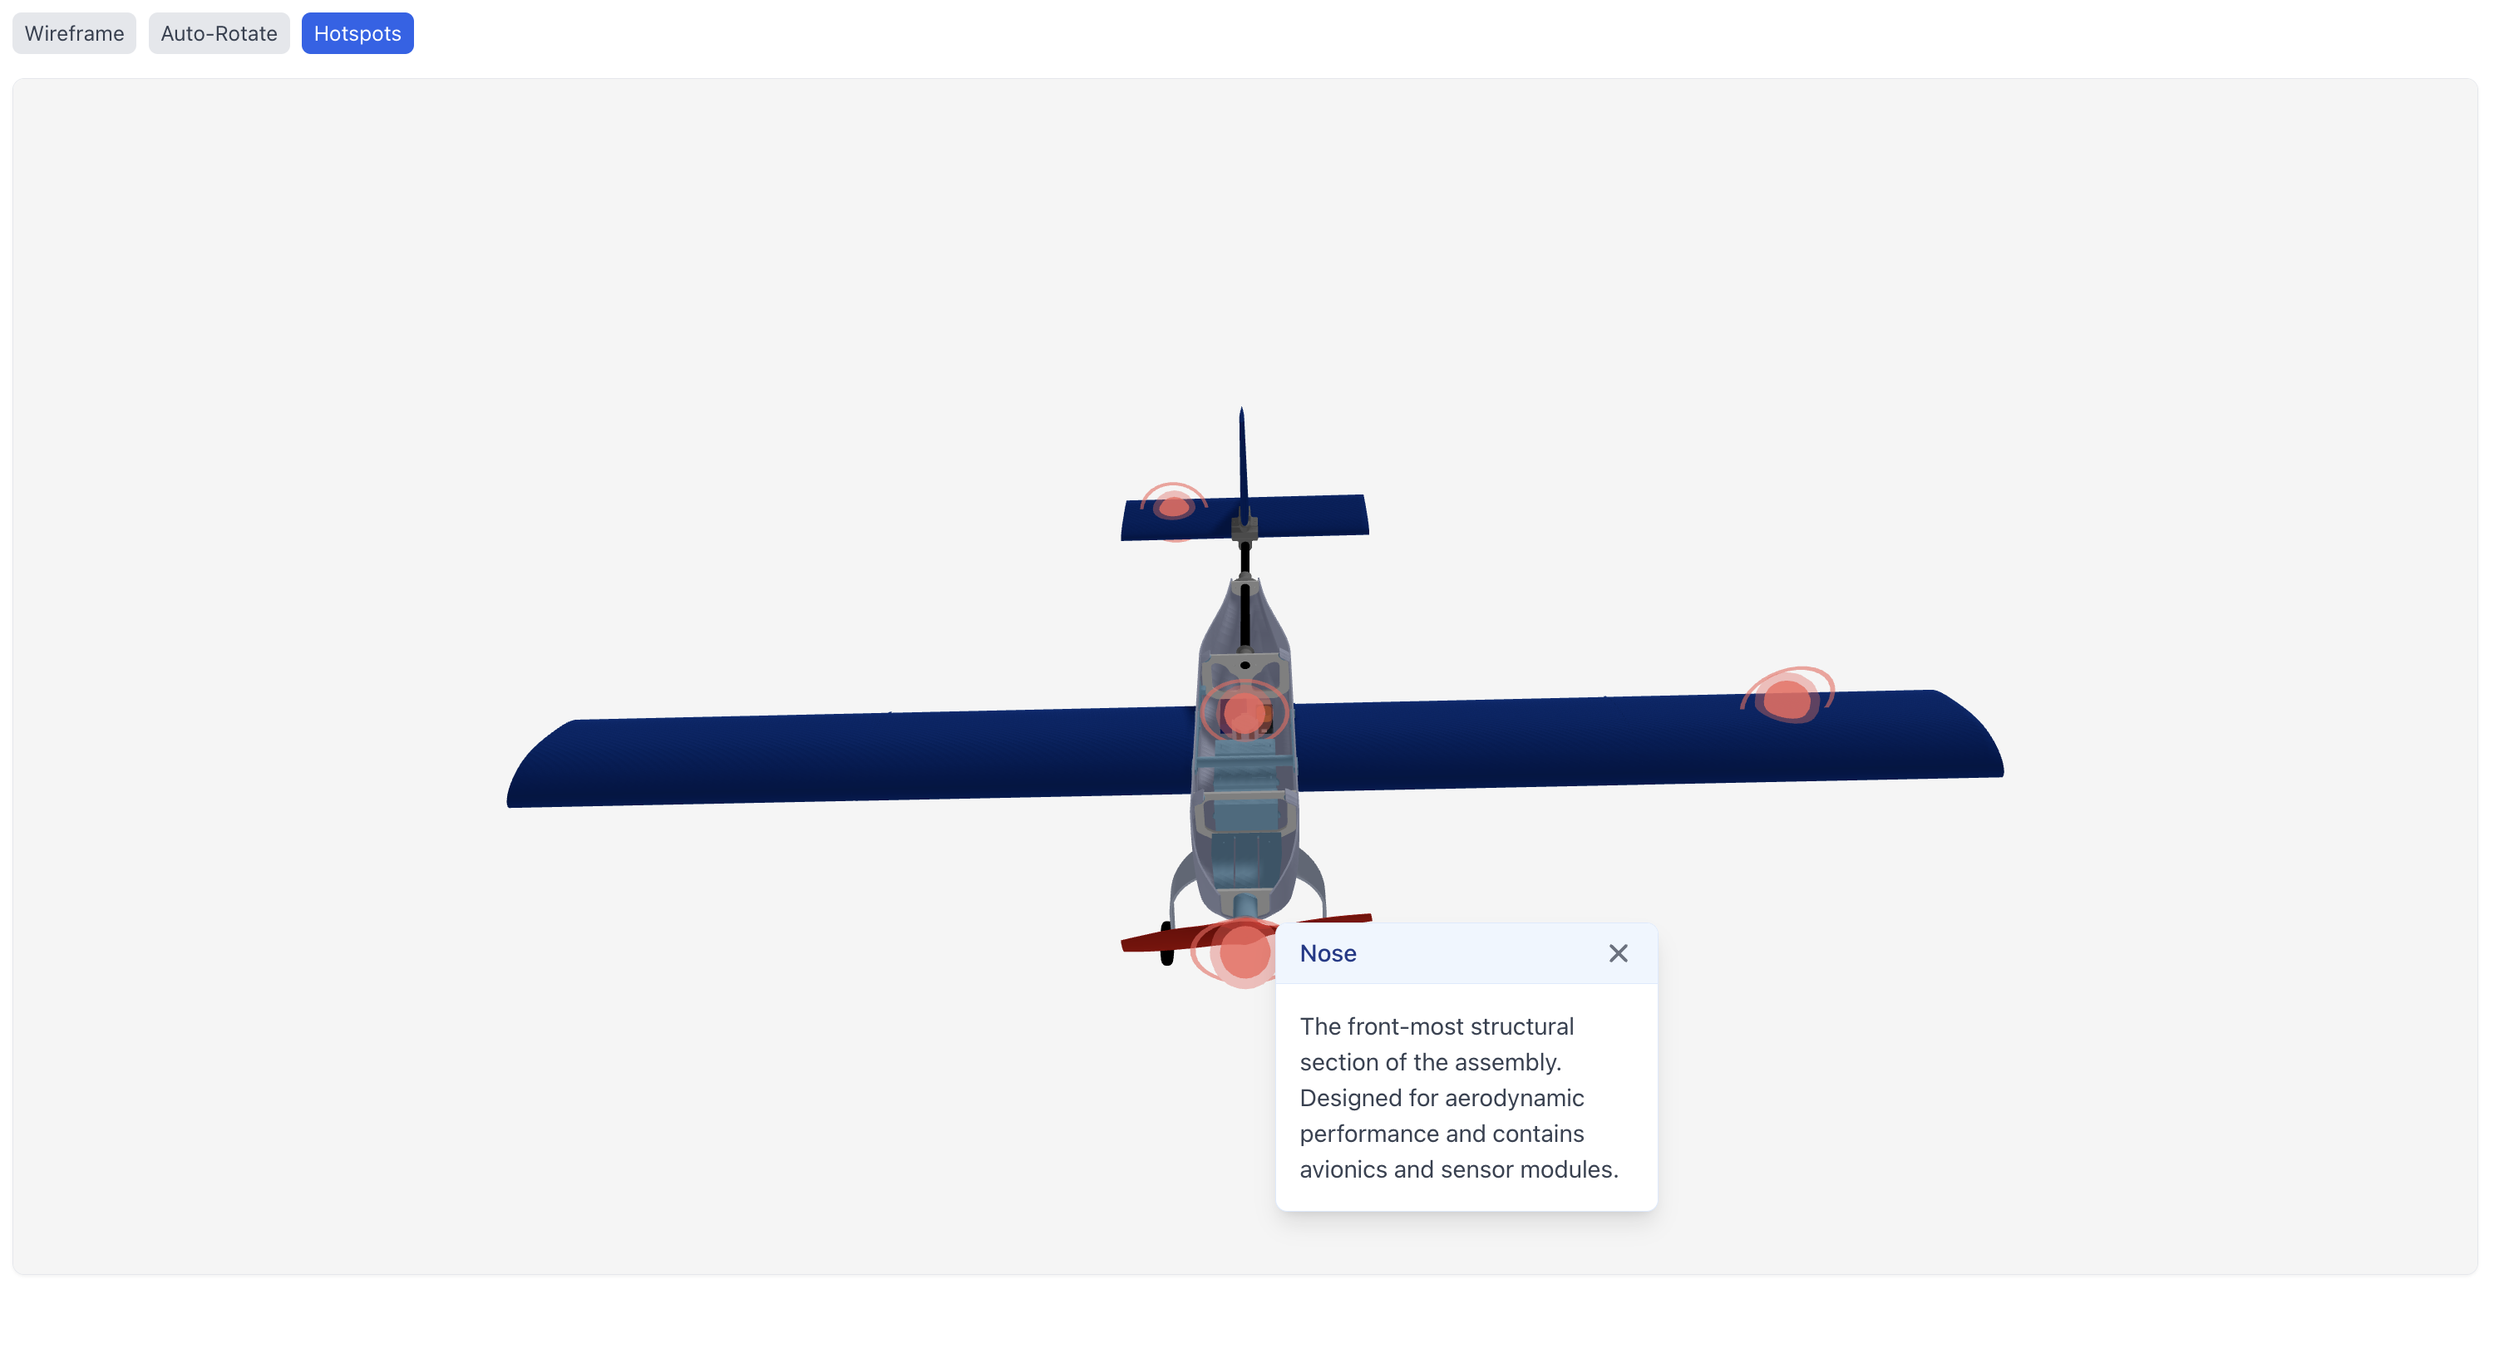
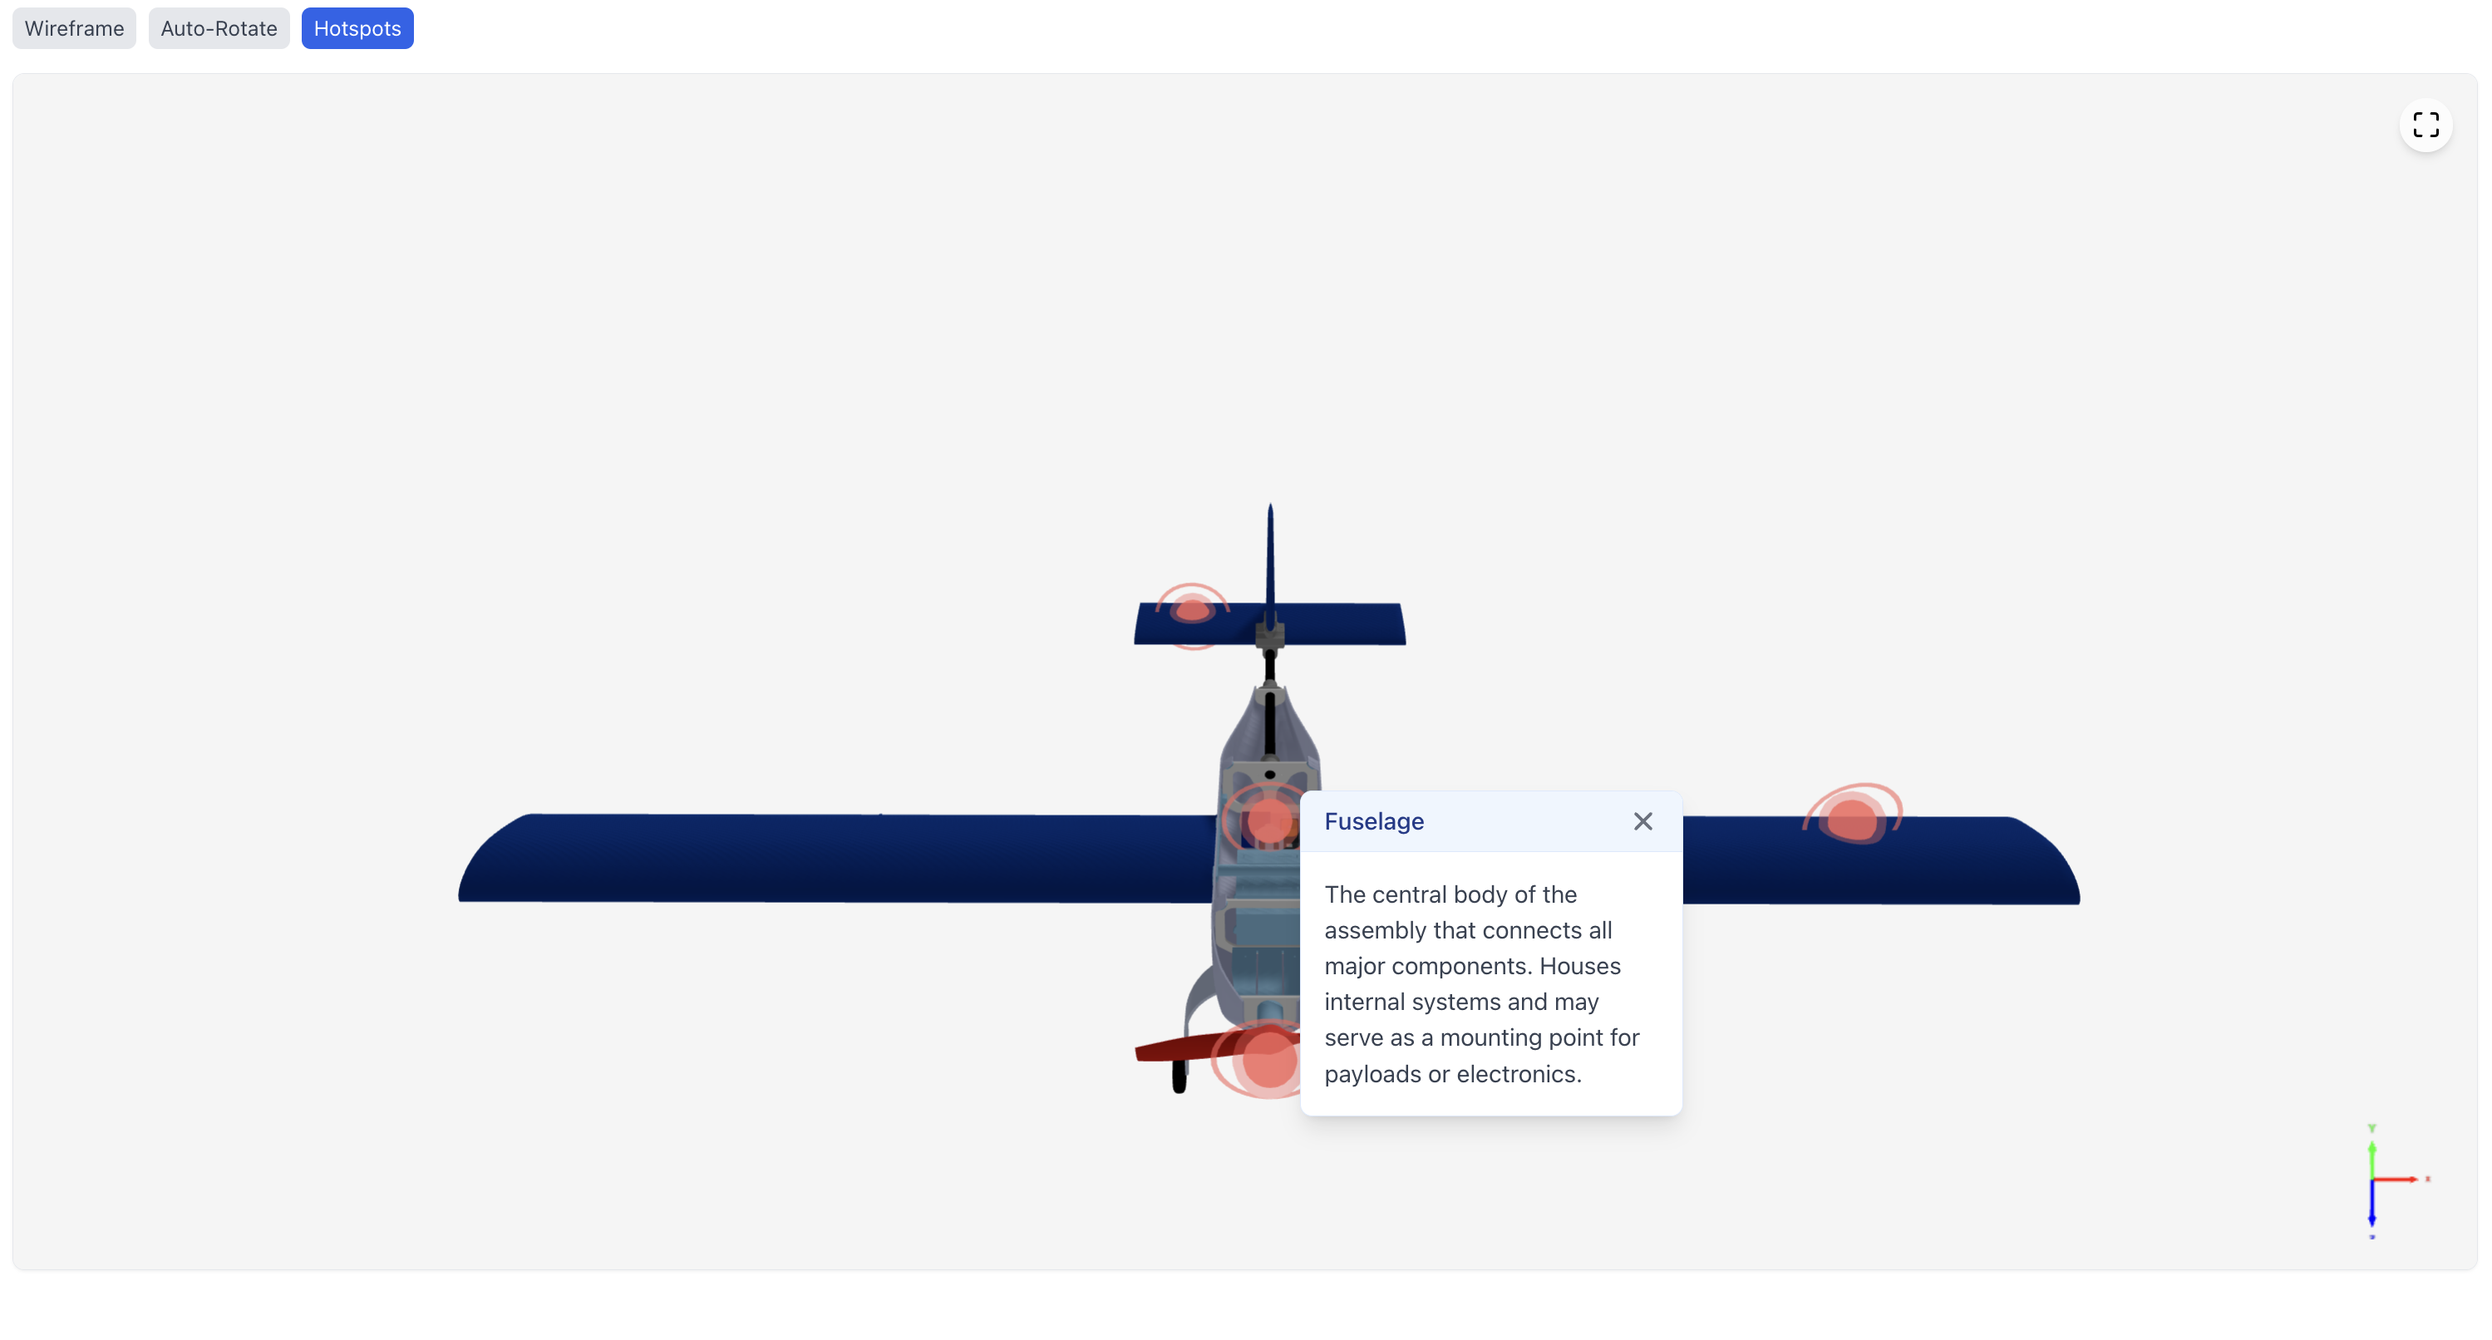
Add full screen and axis gizmo

Changed region(s): [[0.1861, 0.3412, 0.8376, 0.8995], [0.0, 0.0, 0.1861, 0.062], [0.9306, 0.8685, 0.9616, 0.8995]]

diff --git a/src/components/modelViewer/sceneContainer.js b/src/components/modelViewer/sceneContainer.js
@@ -1,7 +1,8 @@
-import { useEffect, useRef } from 'react';
+import { useEffect, useRef, useState } from 'react';
 import { initScene } from '../../utils/sceneSetup';
 import { loadModel } from '../../utils/modelLoader';
 import { createHotspots } from '../../utils/hotspotManager';
+import { createAxisGizmo } from '../UI/axisGizmo';
 
 /**
  * Component that handles the Three.js scene initialization and lifecycle
@@ -10,6 +11,114 @@ export default function SceneContainer({ modelConfig, viewerState, onLoad, onErr
 {
   const containerRef = useRef(null);
   const sceneRef = useRef(null);
+  const gizmoRef = useRef(null);
+  const [isFullscreen, setIsFullscreen] = useState(false);
+
+  const toggleFullscreen = () => {
+    if (!containerRef.current || !sceneRef.current) return;
+    
+    const { renderer, camera } = sceneRef.current;
+    
+    if (!document.fullscreenElement) {
+      // Enter fullscreen
+      let requestSuccess = false;
+      if (containerRef.current.requestFullscreen) {
+        containerRef.current.requestFullscreen();
+        requestSuccess = true;
+      } else if (containerRef.current.webkitRequestFullscreen) {
+        containerRef.current.webkitRequestFullscreen();
+        requestSuccess = true;
+      } else if (containerRef.current.mozRequestFullScreen) {
+        containerRef.current.mozRequestFullScreen();
+        requestSuccess = true;
+      } else if (containerRef.current.msRequestFullscreen) {
+        containerRef.current.msRequestFullscreen();
+        requestSuccess = true;
+      }
+      if(requestSuccess){
+        setIsFullscreen(true);
+        // Resize renderer to window size after a slight delay to ensure fullscreen is complete
+        setTimeout(() => {
+            if (renderer && camera) {
+                renderer.setSize(window.innerWidth, window.innerHeight);
+                camera.aspect = window.innerWidth / window.innerHeight;
+                camera.updateProjectionMatrix();
+            }
+        }, 100);
+    }
+    } else {
+      // Exit fullscreen
+      let exitSuccess = false;
+      if (document.exitFullscreen) {
+        document.exitFullscreen().then(() => {
+          setIsFullscreen(false);
+          // Return to container size after exiting fullscreen
+          setTimeout(() => {
+            if (renderer && camera && containerRef.current) {
+              const width = containerRef.current.clientWidth;
+              const height = containerRef.current.clientHeight;
+              renderer.setSize(width, height);
+              camera.aspect = width / height;
+              camera.updateProjectionMatrix();
+            }
+          }, 100);
+        }).catch();
+      } else if (document.webkitExitFullscreen) {
+        document.webkitExitFullscreen();
+        exitSuccess = true;
+      } else if (document.mozCancelFullScreen) {
+        document.mozCancelFullScreen();
+        exitSuccess = true;
+      } else if (document.msExitFullscreen) {
+        document.msExitFullscreen();
+        exitSuccess = true;
+      }
+      if(exitSuccess) {
+        setIsFullscreen(false);
+        setTimeout(() => updateRendererSize(), 100);
+      }
+    }
+  };
+
+  const updateRendererSize = () => {
+    if (!containerRef.current || !sceneRef.current) return;
+    
+    const { renderer, camera } = sceneRef.current;
+    if (renderer && camera) {
+      const width = isFullscreen ? window.innerWidth : containerRef.current.clientWidth;
+      const height = isFullscreen ? window.innerHeight : containerRef.current.clientHeight;
+      
+      renderer.setSize(width, height);
+      camera.aspect = width / height;
+      camera.updateProjectionMatrix();
+    }
+  };
+
+  // Add event listener for fullscreen change
+  useEffect(() => {
+    const handleFullscreenChange = () => {
+      const fullscreenActive = !!document.fullscreenElement || 
+                !!document.webkitFullscreenElement || 
+                !!document.mozFullScreenElement || 
+                !!document.msFullscreenElement;
+                                
+      setIsFullscreen(fullscreenActive);
+      // Update renderer size on fullscreen change
+      setTimeout(() => updateRendererSize(), 100);
+    };
+
+    document.addEventListener('fullscreenchange', handleFullscreenChange);
+    document.addEventListener('webkitfullscreenchange', handleFullscreenChange);
+    document.addEventListener('mozfullscreenchange', handleFullscreenChange);
+    document.addEventListener('MSFullscreenChange', handleFullscreenChange);
+
+    return () => {
+      document.removeEventListener('fullscreenchange', handleFullscreenChange);
+      document.removeEventListener('webkitfullscreenchange', handleFullscreenChange);
+      document.removeEventListener('mozfullscreenchange', handleFullscreenChange);
+      document.removeEventListener('MSFullscreenChange', handleFullscreenChange);
+    };
+  }, [isFullscreen]);
 
   useEffect(() => {
     if (!containerRef.current) return;
@@ -23,6 +132,9 @@ export default function SceneContainer({ modelConfig, viewerState, onLoad, onErr
       if (sceneRef.current?.cleanup) {
         sceneRef.current.cleanup();
       }
+      if (gizmoRef.current?.cleanup) {
+        gizmoRef.current.cleanup();
+      }
     };
 
     cleanupExistingScene();
@@ -32,6 +144,9 @@ export default function SceneContainer({ modelConfig, viewerState, onLoad, onErr
 
     // Store scene reference for updates and cleanup
     sceneRef.current = { scene, camera, renderer, controls, raycaster, mouse, hotspots, cleanup };
+
+    // Create and initialize the axis gizmo
+    gizmoRef.current = createAxisGizmo({ mainCamera: camera, container: containerRef.current });
 
     // Apply viewer state to scene
     controls.autoRotate = viewerState.autoRotate;
@@ -121,19 +236,17 @@ export default function SceneContainer({ modelConfig, viewerState, onLoad, onErr
       
       controls.update();
       renderer.render(scene, camera);
+      
+      // Update the axis gizmo orientation to match the camera
+      if (gizmoRef.current && gizmoRef.current.update) {
+        gizmoRef.current.update();
+      }
     };
     
     animate();
 
     const handleResize = () => {
-      if (!containerRef.current) return;
-      
-      const width = containerRef.current.clientWidth;
-      const height = containerRef.current.clientHeight;
-      
-      camera.aspect = width / height;
-      camera.updateProjectionMatrix();
-      renderer.setSize(width, height);
+      updateRendererSize();
     };
 
     window.addEventListener('resize', handleResize);
@@ -143,6 +256,9 @@ export default function SceneContainer({ modelConfig, viewerState, onLoad, onErr
       window.removeEventListener('resize', handleResize);
       renderer.domElement.removeEventListener('click', handleClick);
       cancelAnimationFrame(animationFrameId);
+      if (gizmoRef.current && gizmoRef.current.cleanup) {
+        gizmoRef.current.cleanup();
+      }
       cleanup();
     };
   }, [modelConfig.objUrl, modelConfig.mtlUrl]);
@@ -198,8 +314,25 @@ export default function SceneContainer({ modelConfig, viewerState, onLoad, onErr
   return (
     <div
       ref={containerRef}
-      className="w-full h-full bg-gradient-to-b from-gray-50 to-gray-100"
-      style={{ touchAction: 'none' }}
-    />
+      className="w-full h-full bg-gradient-to-b from-gray-50 to-gray-100 relative"
+      style={{ touchAction: 'none', ...(isFullscreen ? { width: '100vw', height: '100vh' } : {}) }}
+    >
+      <button
+        onClick={toggleFullscreen}
+        className="absolute top-4 right-4 z-10 bg-white bg-opacity-70 hover:bg-opacity-100 p-2 rounded-full shadow-md transition-all duration-200"
+        style={{ width: '36px', height: '36px' }}
+        title={isFullscreen ? "Exit Fullscreen" : "Enter Fullscreen"}
+      >
+        {isFullscreen ? (
+          <svg xmlns="http://www.w3.org/2000/svg" width="20" height="20" viewBox="0 0 24 24" fill="none" stroke="currentColor" strokeWidth="2" strokeLinecap="round" strokeLinejoin="round">
+            <path d="M8 3v3a2 2 0 0 1-2 2H3m18 0h-3a2 2 0 0 1-2-2V3m0 18v-3a2 2 0 0 1 2-2h3M3 16h3a2 2 0 0 1 2 2v3" />
+          </svg>
+        ) : (
+          <svg xmlns="http://www.w3.org/2000/svg" width="20" height="20" viewBox="0 0 24 24" fill="none" stroke="currentColor" strokeWidth="2" strokeLinecap="round" strokeLinejoin="round">
+            <path d="M8 3H5a2 2 0 0 0-2 2v3m18 0V5a2 2 0 0 0-2-2h-3m0 18h3a2 2 0 0 0 2-2v-3M3 16v3a2 2 0 0 0 2 2h3" />
+          </svg>
+        )}
+      </button>
+    </div>
   );
 }

diff --git a/src/components/UI/axisGizmo.js b/src/components/UI/axisGizmo.js
@@ -1,0 +1,156 @@
+import * as THREE from 'three';
+
+/**
+ * Creates an orientation axis gizmo for the scene
+ * @param {Object} params - Parameters
+ * @param {THREE.Camera} params.mainCamera - Main camera
+ * @param {HTMLElement} params.container - Container element
+ * @returns {Object} Gizmo objects and update function
+ */
+export function createAxisGizmo({ mainCamera, container }) {
+  // Create a separate scene for the gizmo
+  const gizmoScene = new THREE.Scene();
+  
+  // Create a separate camera for the gizmo
+  const gizmoCamera = new THREE.PerspectiveCamera(50, 1, 0.1, 100);
+  gizmoCamera.position.set(0, 0, 3);
+  gizmoCamera.lookAt(0, 0, 0);
+  
+  // Create a renderer for the gizmo
+  const gizmoRenderer = new THREE.WebGLRenderer({ alpha: true, antialias: true });
+  gizmoRenderer.setSize(80, 80);
+  gizmoRenderer.setClearColor(0x000000, 0);
+  
+  // Position the gizmo renderer in the bottom right corner
+  gizmoRenderer.domElement.style.position = 'absolute';
+  gizmoRenderer.domElement.style.bottom = '20px';
+  gizmoRenderer.domElement.style.right = '30px';
+  gizmoRenderer.domElement.style.zIndex = '10';
+  gizmoRenderer.domElement.style.pointerEvents = 'none'; // Ignore mouse events
+  
+  // Add the gizmo's canvas to the container
+  container.appendChild(gizmoRenderer.domElement);
+  
+  // Create axes for the gizmo
+  const axisLength = 1;
+
+  // X-axis (red)
+  const xAxisGeometry = new THREE.CylinderGeometry(0.04, 0.04, axisLength, 8);
+  const xAxisMaterial = new THREE.MeshBasicMaterial({ color: 0xff0000 });
+  const xAxis = new THREE.Mesh(xAxisGeometry, xAxisMaterial);
+  xAxis.position.set(axisLength / 2, 0, 0);
+  xAxis.rotation.z = -Math.PI / 2;
+  gizmoScene.add(xAxis);
+
+  const xConeGeometry = new THREE.ConeGeometry(0.08, 0.2, 8);
+  const xCone = new THREE.Mesh(xConeGeometry, xAxisMaterial);
+  xCone.position.set(axisLength, 0, 0);
+  xCone.rotation.z = -Math.PI / 2;
+  gizmoScene.add(xCone);
+
+  // Y-axis (green)
+  const yAxisGeometry = new THREE.CylinderGeometry(0.04, 0.04, axisLength, 8);
+  const yAxisMaterial = new THREE.MeshBasicMaterial({ color: 0x00ff00 });
+  const yAxis = new THREE.Mesh(yAxisGeometry, yAxisMaterial);
+  yAxis.position.set(0, axisLength / 2, 0);
+  gizmoScene.add(yAxis);
+
+  const yConeGeometry = new THREE.ConeGeometry(0.08, 0.2, 8);
+  const yCone = new THREE.Mesh(yConeGeometry, yAxisMaterial);
+  yCone.position.set(0, axisLength, 0);
+  gizmoScene.add(yCone);
+
+  // Z-axis (blue)
+  const zAxisGeometry = new THREE.CylinderGeometry(0.04, 0.04, axisLength, 8);
+  const zAxisMaterial = new THREE.MeshBasicMaterial({ color: 0x0000ff });
+  const zAxis = new THREE.Mesh(zAxisGeometry, zAxisMaterial);
+  zAxis.position.set(0, 0, axisLength / 2);
+  zAxis.rotation.x = Math.PI / 2;
+  gizmoScene.add(zAxis);
+
+  const zConeGeometry = new THREE.ConeGeometry(0.08, 0.2, 8);
+  const zCone = new THREE.Mesh(zConeGeometry, zAxisMaterial);
+  zCone.position.set(0, 0, axisLength);
+  zCone.rotation.x = Math.PI / 2;
+  gizmoScene.add(zCone);
+
+  // Axis label helper
+  function createAxisLabel(text, color = '#ffffff') {
+    const canvas = document.createElement('canvas');
+    canvas.width = 64;
+    canvas.height = 64;
+    const context = canvas.getContext('2d');
+    context.font = 'bold 36px Arial';
+    context.fillStyle = color;
+    context.textAlign = 'center';
+    context.textBaseline = 'middle';
+    context.fillText(text, canvas.width / 2, canvas.height / 2);
+
+    const texture = new THREE.CanvasTexture(canvas);
+    texture.needsUpdate = true;
+
+    const material = new THREE.SpriteMaterial({ map: texture, transparent: true });
+    return new THREE.Sprite(material);
+  }
+
+  // Axis Labels
+  const xLabel = createAxisLabel('X', '#ff0000');
+  xLabel.position.set(axisLength + 0.3, 0, 0);
+  xLabel.scale.set(0.3, 0.3, 0.3);
+  gizmoScene.add(xLabel);
+
+  const yLabel = createAxisLabel('Y', '#00ff00');
+  yLabel.position.set(0, axisLength + 0.3, 0);
+  yLabel.scale.set(0.3, 0.3, 0.3);
+  gizmoScene.add(yLabel);
+
+  const zLabel = createAxisLabel('Z', '#0000ff');
+  zLabel.position.set(0, 0, axisLength + 0.3);
+  zLabel.scale.set(0.3, 0.3, 0.3);
+  gizmoScene.add(zLabel);
+
+  // Group all gizmo elements
+  const gizmoGroup = new THREE.Group();
+  gizmoScene.children.forEach(child => {
+    gizmoGroup.add(child.clone());
+  });
+  gizmoScene.clear();
+  gizmoScene.add(gizmoGroup);
+
+  // Function to update gizmo orientation based on main camera
+  const updateGizmo = () => {
+    const rotation = new THREE.Euler().copy(mainCamera.rotation);
+    gizmoGroup.rotation.copy(rotation);
+    gizmoRenderer.render(gizmoScene, gizmoCamera);
+  };
+
+  // Return objects and cleanup function
+  return {
+    update: updateGizmo,
+    cleanup: () => {
+      try {
+        if (container && gizmoRenderer.domElement && container.contains(gizmoRenderer.domElement)) {
+          container.removeChild(gizmoRenderer.domElement);
+        }
+      } catch (e) {
+        console.warn("Failed to remove gizmo canvas:", e);
+      }
+
+      gizmoRenderer.dispose();
+
+      [
+        xAxisGeometry, xConeGeometry, yAxisGeometry,
+        yConeGeometry, zAxisGeometry, zConeGeometry
+      ].forEach(geo => geo?.dispose?.());
+
+      [xAxisMaterial, yAxisMaterial, zAxisMaterial].forEach(mat => mat?.dispose?.());
+
+      gizmoScene.children
+        .filter(child => child.type === 'Sprite')
+        .forEach(sprite => {
+          sprite.material?.map?.dispose?.();
+          sprite.material?.dispose?.();
+        });
+    }
+  };
+}
